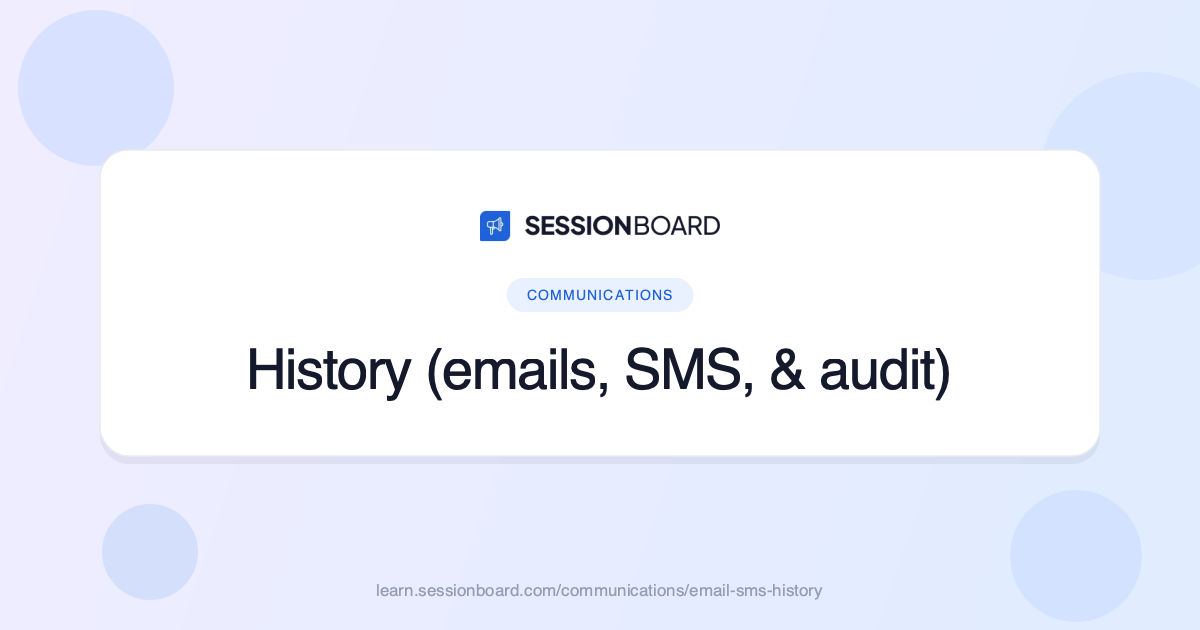
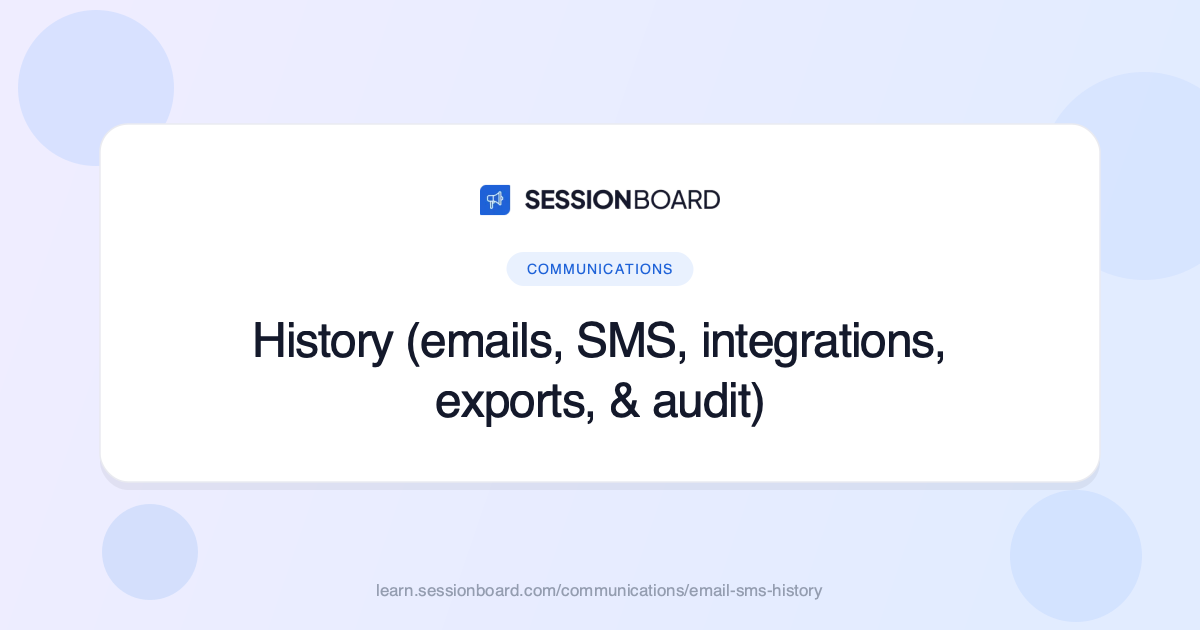
Product-state delta pass: sync docs with current web-api/web-ui-v2
Verified against source (see PRODUCT-DELTA-AUDIT.md for evidence):
- Portal Extend Task Deadlines: fixed stale "up to 31 days" -> configurable
  Final Deadline (default 7 days)
- Automated emails: full categorized catalog from the system-notification
  registry (~36 types + awards suite; was 10)
- History module: added Integrations (sync history + error summaries) and
  Exports tabs; retitled article
- Max file size FAQ: 1.95 GB -> 5 GB platform cap + Record Settings override
- Documents module renamed Print in nav; doc updated
- PRODUCT-DELTA-AUDIT.md tracks all fixes, verified-correct claims, and
  pending items (gated/EA features) for review

diff --git a/PRODUCT-DELTA-AUDIT.md b/PRODUCT-DELTA-AUDIT.md
@@ -1,0 +1,64 @@
+# Product-to-docs delta audit — Aug 3, 2026
+
+Docs were diffed against the current state of `sessionboard-web-api` and
+`sessionboard-web-ui-v2` (code inventories + targeted source verification).
+Every claim below was verified against source before editing; file paths are
+the evidence.
+
+## Fixed in this pass
+
+| # | Delta | Docs change | Product evidence |
+|---|-------|-------------|------------------|
+| 1 | Portal "Extend Task Deadline (up to 31 days)" is stale — the product now exposes a configurable **Final Deadline** (days after the original due date, default 7) | `portals/portals-101.mdx` updated | `web-ui-v2 src/features/Portals/components/steps/ConfigurationStep.tsx` (Extend Task Deadlines toggle + Final Deadline number input); `web-api models/config_set/config_set.js` (`days_after_deadline` default 7) |
+| 2 | Automated-emails article listed only 10 email types; the system-notification registry defines ~36 fixed types + a 10-email awards suite (incl. 2FA codes, magic links, invoice receipts, scheduled report delivery, portal messages) | `communications/automated-emails.mdx` — added a complete categorized catalog (account/sign-in, sessions & forms, intake, awards, portal, evaluations, files & reports) | `web-api src/notifications/system-notification-registry.js` (source of truth, incl. locked vs. configurable) |
+| 3 | History module doc covered only Emails/SMS/Audit; the module now also ships GA **Integrations** (sync history + per-run error summaries and API logs) and **Exports** (re-download previous exports) tabs | `communications/email-sms-history.mdx` — retitled, added Integrations and Exports sections | `web-ui-v2 src/features/History/components/EventHistoryView.tsx` (tab list; Reports/Imports/Trash/Spend are flagged or superuser-only — not documented), `SyncHistoryTable.tsx`, `IntegrationLogsTable.tsx`, `ExportsTable.tsx` |
+| 4 | Max file size FAQ said **1.95 GB** — platform cap is now **5 GB**, with per-event lower limits configurable in Record Settings (headshots/logos default 5 MB when limited) | `faq/what-is-the-maximum-file-size-that-sessionboard-supports.mdx` rewritten | `web-ui-v2 src/lib/filestack.ts` (`PORTAL_LIBRARY_MAX_FILE_BYTES` = 5 GB), `RecordSettingsGeneralTab.tsx`; `web-api models/utils/content-settings.js` (`PLATFORM_MAX_UPLOAD_BYTES` = 5 GB) |
+| 5 | The Documents module was renamed **Print** in the current nav (`/program/print`) | `documents/document-generation.mdx` intro + description updated to lead with Print | `web-ui-v2 src/lib/navRouteMap.ts` (`EventDocuments` → `/program/print`), `nav.documents` label = "Print", `adminHiddenFeatures.ts` (documents flag folded into `print_agenda`) |
+
+## Verified correct (no change needed)
+
+| Claim in docs | Verdict | Evidence |
+|---------------|---------|----------|
+| Speaker limit "up to 15 speakers per session" (`sessions/submission-forms.mdx`) | Correct — form builder input is min 1 / max 15, default 6 | `web-ui-v2 src/features/Sessions/components/formEditor/FormSettingsStep.tsx` (max=15) |
+| Draft submission reminders "five days and one day before close" | Correct | `web-api bin/workers/handlers/cfp-reminders-handler.js` |
+| 2FA doc covers passkeys, authenticator app (TOTP), email codes, recovery codes | Current | `get-started/how-to-set-up-two-factor-authentication-2fa-...mdx` matches `web-api services/two-factor/` |
+| Terminology: "Submission form" (not CFP), "Speaker Label" | Clean across docs | grep audit |
+| Sessions 2.0 form doc describes role-based participant limits (not the old speaker limit) | Current — matches v2 role capacity model | `applications/building-your-submission-form.mdx` vs `FormSettingsStep.tsx` (`hideSpeakerLimit` for v2) |
+| Insights doc covers report scheduling (Daily/Weekly/Monthly, 5 recipients) and live share links | Current | `reporting/insights-ai.mdx` vs `web-ui-v2 src/features/Reports`, `SharedInsights` |
+| Round-based evaluations doc: 4-step wizard (Overview → Rounds → Evaluators → Assignments), Funnel vs. Parallel rounds | Current — matches v2 exactly | `evaluations/setting-up-round-based-evaluations.mdx` vs `web-ui-v2 evalPlanV2Constants.ts` |
+| Print agendas doc | Current | `marketing/print-agendas.mdx` vs `features/Documents` (print_agenda) |
+
+## Deltas identified — pending decision or GA confirmation
+
+These are real product surfaces with **no docs coverage**. Most look
+feature-gated or early-access; confirm GA status before writing articles.
+
+| Feature | Signal | Notes for review |
+|---------|--------|------------------|
+| **Goldcast integration** | `web-api services/integrations/conferences/goldcast/` mounted; appears in v2 Apps catalog but referenced from `EarlyAccess/` and `featureUtils` | Not in the apps docs section. Add an integration article once GA. |
+| **Ready Room / Live Transcribe** | Full service (`services/ready-room/`), magic-link emails live in registry | No docs section. Magic links: standard 30 min TTL, named invites 30 days. |
+| **Portal Communication (messaging)** | `services/messaging/` — segmented message threads, digest notifications | Docs only cover file-request messages. |
+| **Amplify (advocacy campaigns, short links, clips)** | `services/amplify/`, `/r/:slug` redirects | No docs. Likely early access. |
+| **Media Hub (recordings/clips/transcripts)** | `services/media/`; 50 GB recording upload cap | No docs. |
+| **Org Portal (external reviewer/awards site)** | `services/org-portal/` with magic-link auth | Awards docs mention reviewers but not the org-portal surface. |
+| **Paid submission forms** | `cfp-invoice-receipt` email, PAYMENT step in public CFP flow | Only sponsor/exhibitor payments FAQ exists. Consider a "collect submission payments" article. |
+| **Public CFP flow changes** | New "Your Information" submitter step (SB-8146), review + payment steps | `participants/` docs describe the older flow loosely; screenshots predate. |
+| **InGo & Snöball integration articles** | Both have docs articles (from HubSpot), but the v2 Apps catalog lists both as **coming soon** cards; backend has an active SnoBall inbound webhook, and **no InGo service exists in web-api** | Verify with product whether these describe partner workflows that still function, or should be marked/removed. |
+| **DocuSign / Contracts** | First in the v2 Integrations order but gated behind the `contracts` Early Access beta | No docs article — hold until GA. |
+| **Multi-language portals** | Portal configuration now has "Enable multi-language portal" + auto-translate sub-options | `settings/language-variant.mdx` says "enabled upon request" — confirm current enablement path and update. |
+| **Speaker CRM suite growth** | Pipeline, Accounts, Prospects/Scouting, Contracts, Requests — several are Early Access betas | Docs cover the core CRM set; hold beta surfaces (Scouting, Requests, Contracts) until GA. |
+| **New Navigation (module groups Program/CRM/Marketing/CMS/Attend)** | Early Access preview | When GA, most screenshots and "navigate to X module" instructions will need a refresh pass. |
+## Do NOT document (confirmed not live / internal)
+
+- **EventSites** — shelved, never shipped (per repo guidance).
+- **Export service** (`services/export/`) — deprecated, routes commented out.
+- **MYS / Personify integrations** — config-only stubs.
+- **Cvent Org integration** — in development.
+- Internal surfaces: sandbox seeder, impersonation, CSM/billing-admin dashboards, dev-tools.
+
+## Method
+
+1. Two codebase inventories (web-api services + limits/emails; web-ui-v2 features/labels).
+2. Grep-level verification of every numeric or terminology claim before editing docs.
+3. Only claims verified against source were changed; everything ambiguous is
+   parked above rather than guessed at.
